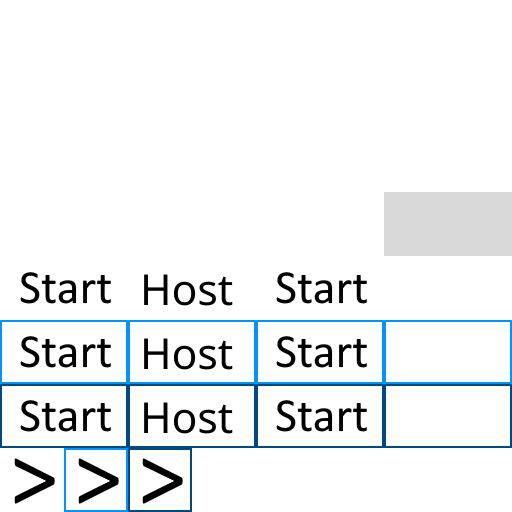
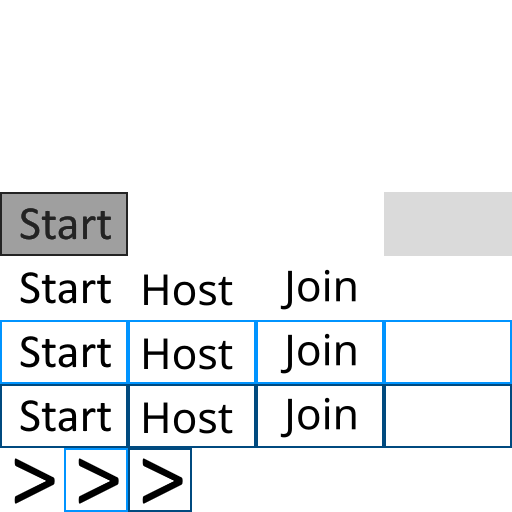
added textures and made some changes

diff --git a/nPlayerConnect4/Server.h b/nPlayerConnect4/Server.h
@@ -12,6 +12,8 @@ class Server : public net::ServerInterface<GameMsg>
 private:
 	std::string password;
 	bool inGame;
+	uint32_t boardWidth;
+	uint32_t boardheight;
 	//Version serverVer;
 	std::map<uint32_t,Game2D::Colour> playerColours;
 	std::vector<uint32_t> garbageIDs;
@@ -27,6 +29,9 @@ protected:
 		//send the player their player number
 		net::Message<GameMsg> msg;
 		msg.header.id = GameMsg::SERVER_ACCEPT;
+
+		msg << boardheight;
+		msg << boardWidth;
 
 		for(auto& it : playerColours){
 			//push the colour then the ID
@@ -73,7 +78,15 @@ protected:
 			}
 			case GameMsg::BOARD_SIZE:{
 				//send the board size to everyone except the sending client
-				messageAllClients(msg,client);
+				msg >> boardWidth;
+				msg >> boardheight;
+
+				net::Message<GameMsg> outMsg;
+				outMsg.header.id = GameMsg::BOARD_SIZE;
+				outMsg << boardheight;
+				outMsg << boardWidth;
+
+				messageAllClients(outMsg,client);
 				break;
 			}
 			case GameMsg::PLAYER_MOVE: {

diff --git a/nPlayerConnect4/Board.cpp b/nPlayerConnect4/Board.cpp
@@ -23,7 +23,8 @@ void Board::setClickboxes()
 	float clickHeight = (segDim + 2) * height;
 	for (float i = 0, x = (0 - ((segDim + 2) * (width - 1)) / 2.0f); i < width; i++, x+=(segDim +2)) {
 		Game2D::ClickableObject temp;
-		temp.setRect(Game2D::Rect(x,0, segDim,((segDim + 2) * (height - 1)) + 2));
+		//std::cout << "Adding click object at:\t" << Game2D::Rect(x,0, segDim,((segDim + 2) * (height - 1)) + 2) << "\n";
+		temp.setRect(Game2D::Rect(x,0, segDim,((segDim + 2) * (height))));
 		clickboxes.push_back(temp);
 		clickboxes.back().alignToDrawableObject();
 	}
@@ -290,7 +291,8 @@ void Board::draw()
 	float y = -50 + (segDim/2.0f)+2;
 
 	for(int i = 0; i < width; i++){
-		y = -50 + (segDim / 2.0f) + 1;
+		//y = -50 + (segDim / 2.0f) + 1;//old formula
+		y = 0 - ((segDim+2) * ((height-1)/2.0));
 		for(int j = 0; j < height; j++){
 			if(board[j][i] != -1){
 				circleSprite.setColour(playerColours[board[j][i]]);

diff --git a/nPlayerConnect4/Lobby.cpp b/nPlayerConnect4/Lobby.cpp
@@ -46,9 +46,19 @@ void Lobby::init()
 	hoverSprite.setRect(tempRect);
 	clickSprite.setRect(tempRect);
 
+	disabledSprite.setTextureCoords(Game2D::Rect(0.0f,0.500f,0.25f,0.125f));
+	normalSprite.setTextureCoords(Game2D::Rect(0.0f,0.375f,0.25f,0.125f));
+	hoverSprite.setTextureCoords(Game2D::Rect(0.0f,0.250f,0.25f,0.125f));
+	clickSprite.setTextureCoords(Game2D::Rect(0.0f,0.125f,0.25f,0.125f));
+
 	startButton.setRect(tempRect);
 	startButton.addStateSprites(normalSprite,hoverSprite,clickSprite,clickSprite,disabledSprite);
 	startButton.alignToDrawableObject();
+
+	disabledSprite.setTextureCoords(Game2D::Rect(0.75f,0.500f,0.25f,0.125f));
+	normalSprite.setTextureCoords(Game2D::Rect(0.75f,0.375f,0.25f,0.125f));
+	hoverSprite.setTextureCoords(Game2D::Rect(0.75f,0.250f,0.25f,0.125f));
+	clickSprite.setTextureCoords(Game2D::Rect(0.75f,0.125f,0.25f,0.125f));
 
 	tempRect = Game2D::Rect(11,40,1,2);
 

diff --git a/nPlayerConnect4/ConnectMenu.cpp b/nPlayerConnect4/ConnectMenu.cpp
@@ -8,6 +8,16 @@ ConnectMenu::ConnectMenu()
 	//port = "60000";//default port to 60000
 }
 
+void ConnectMenu::setHost(bool host){
+	std::cout << "Setting host\n";
+	isHost = host;
+	Game2D::Sprite normalSprite, hoverSprite, clickSprite;
+	if(isHost) {
+		//if the player is self hosting set the connect ip to localhost
+		address.setText("127.0.0.1");
+	}
+}
+
 void ConnectMenu::init()
 {
 	m_menuTex = ImageLoder::loadPNG("Images/menu.png");
@@ -103,10 +113,10 @@ int ConnectMenu::processMouse(Game2D::Pos2 mousePos, Game2D::KeyState::State mou
 
 	if(!isHost) {
 		address.processMouse(mousePos,mouseState,1);
-	} else {
+	} /*else {
 		//if the player is self hosting set the connect ip to localhost
 		address.setText("127.0.0.1");
-	}
+	}*/
 	port.processMouse(mousePos,mouseState,1);
 
 	if(backButton.update(mousePosAlignedLeft,mouseState,1) == Game2D::ClickableObject::CLICK){

diff --git a/nPlayerConnect4/MainMenu.cpp b/nPlayerConnect4/MainMenu.cpp
@@ -112,9 +112,9 @@ void MainMenu::init()
 	tempRect = Game2D::Rect(-15,-10,10,5);
 	Game2D::Sprite tempNormal, tempHover, tempClick;
 	//borrowing the start sprites for the join button sprites
-	tempNormal.setTextureCoords(Game2D::Rect(0.75f, 0.375f, 0.25f, 0.125f));
-	tempHover.setTextureCoords(Game2D::Rect(0.75f, 0.25f, 0.25f, 0.125f));
-	tempClick.setTextureCoords(Game2D::Rect(0.75f, 0.125f, 0.25f, 0.125f));
+	tempNormal.setTextureCoords(Game2D::Rect(0.50f, 0.375f, 0.25f, 0.125f));
+	tempHover.setTextureCoords(Game2D::Rect(0.50f, 0.25f, 0.25f, 0.125f));
+	tempClick.setTextureCoords(Game2D::Rect(0.50f, 0.125f, 0.25f, 0.125f));
 
 	tempNormal.setRect(tempRect);
 	tempHover.setRect(tempRect);

diff --git a/nPlayerConnect4/Lobby.h b/nPlayerConnect4/Lobby.h
@@ -10,6 +10,11 @@
 #include <map>
 #include <Slider.h>
 
+
+//TODO add a join button texture and a back button texture
+//TODO add single player
+//TODO add ability to change if from connect4 to connectx
+
 class Lobby
 {
 private:

diff --git a/nPlayerConnect4/ConnectMenu.h b/nPlayerConnect4/ConnectMenu.h
@@ -31,7 +31,7 @@ protected:
 public:
 	ConnectMenu();
 
-	inline void setHost(bool host) { isHost = host; }
+	void setHost(bool host);
 
 	void init();
 
